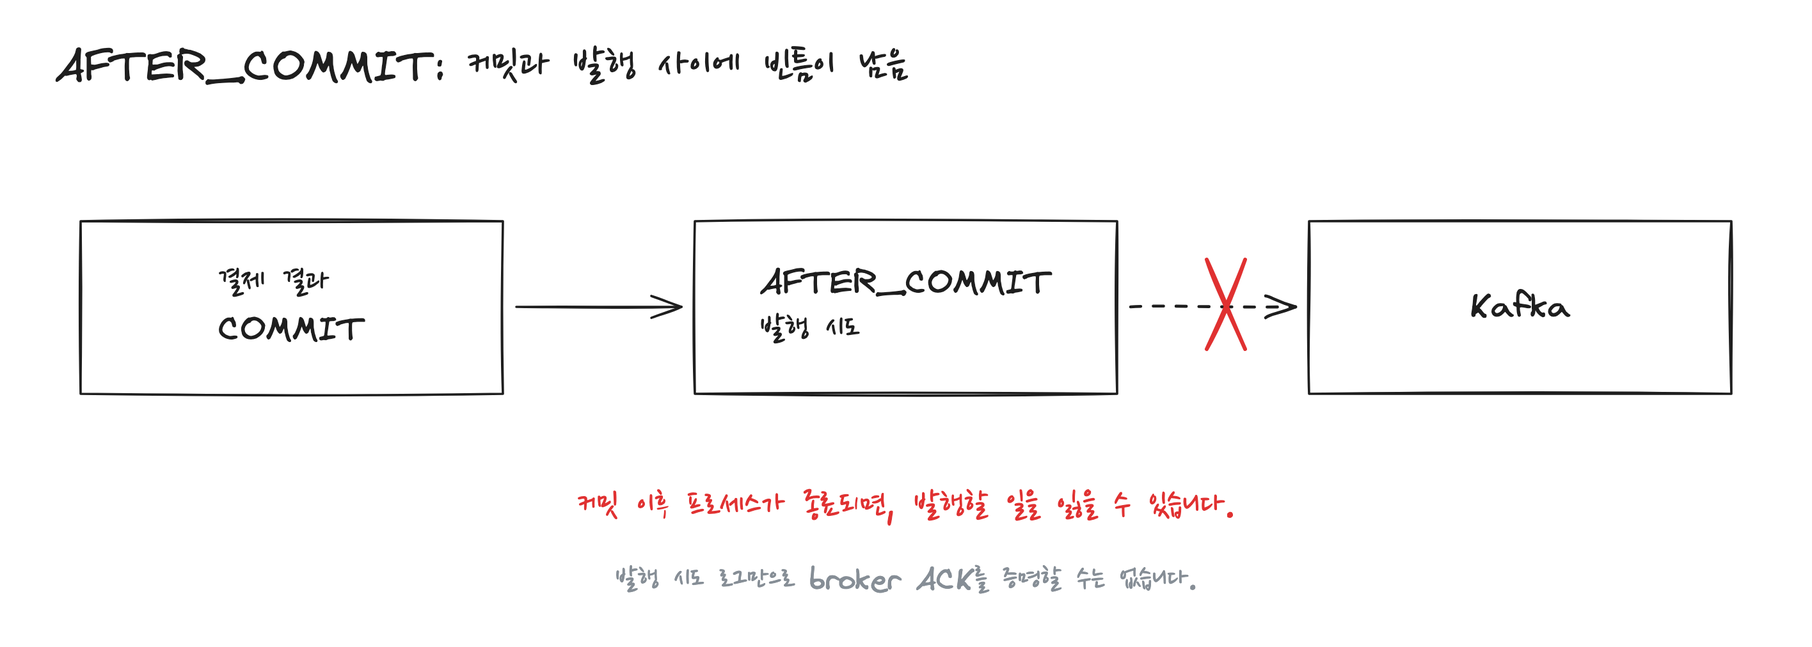
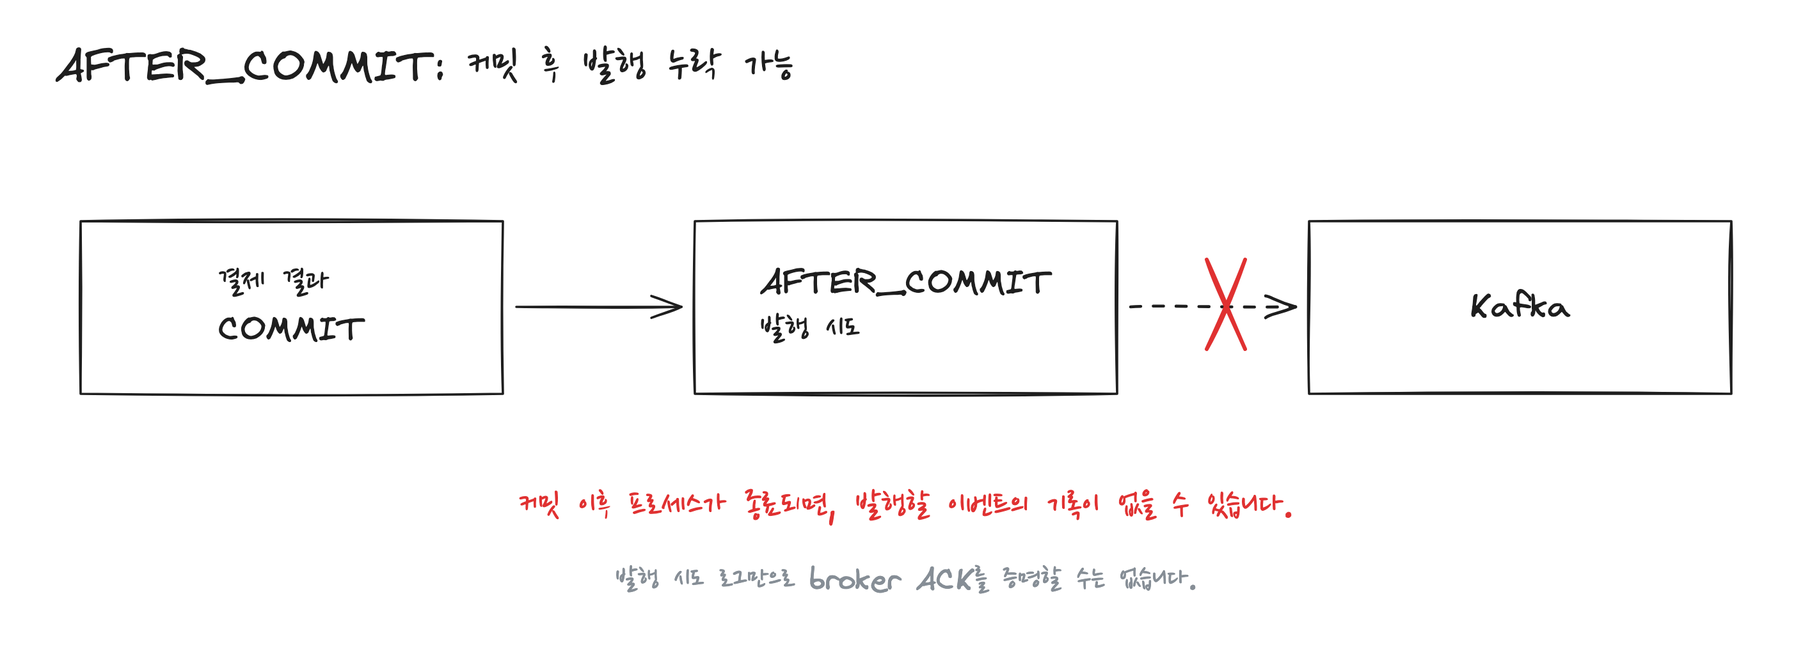
docs(blog): 비유 표현 정리와 MSK 운영 환경 명시

Changed region(s): [[0.2797, 0.7658, 0.7147, 0.7964], [0.2797, 0.0613, 0.4972, 0.1225]]

diff --git a/posts/transactional-outbox-relay/index.html b/posts/transactional-outbox-relay/index.html
@@ -6,15 +6,15 @@
 <p>필요한 것은 승인 API를 다시 호출하는 일이 아니었습니다. <strong>이미 확정된 결제 결과를 잃지 않고 주문에 반영하는 경로</strong>였습니다. 이 글에서는 그 경로에 Outbox를 도입한 이유와, 전달 지연을 줄이면서 콜백 Relay를 선택한 근거를 다룹니다.</p>
 <h2 id="section-1">1. 결제는 됐다는데, 주문은 어디 갔을까</h2>
 <p>처음에는 판매자 화면의 갱신 문제를 의심했습니다. 그런데 주문 조회 API에서도 해당 주문은 결제 대기였습니다. 화면을 새로고침해서 해결할 일이 아니었습니다.</p>
-<p>같은 주문번호로 APM과 요청 로그를 따라갔습니다. 결제 서비스에는 PG 승인 성공과 결제 결과 저장 기록이 있었지만, 주문 서비스에는 그 결과를 반영한 기록이 없었습니다. 여기서 확인한 것은 <strong>결제 결과와 주문 상태가 갈라졌다는 사실</strong>입니다. 이것만으로 HTTP 응답 유실인지, 이벤트 발행이나 적용 실패인지까지 확정할 수는 없었습니다.</p>
-<p>여러 축제의 여러 푸드트럭이 플랫폼을 사용하고 고객은 QR로 메뉴를 열어 주문합니다. 주문 서비스와 결제 서비스는 배포 단위가 분리돼 있습니다. 같은 MySQL 인스턴스를 사용하지만 각자 소유한 테이블과 독립적인 트랜잭션을 관리합니다. 결제 서비스는 승인과 취소, 환불뿐 아니라 판매자별 정산과 지급대행도 담당합니다.</p>
+<p>같은 주문번호로 APM과 요청 로그를 따라갔습니다. 결제 서비스에는 PG 승인 성공과 결제 결과 저장 기록이 있었지만, 주문 서비스에는 그 결과를 반영한 기록이 없었습니다. 여기서 확인한 것은 <strong>결제 결과와 주문 상태가 일치하지 않는다는 사실</strong>입니다. 이것만으로 HTTP 응답 유실인지, 이벤트 발행이나 적용 실패인지까지 확정할 수는 없었습니다.</p>
+<p>여러 축제의 여러 푸드트럭이 플랫폼을 사용하고 고객은 QR로 메뉴를 열어 주문합니다. 주문 서비스와 결제 서비스는 배포 단위가 분리돼 있습니다. 같은 MySQL 인스턴스를 사용하지만 각자 소유한 테이블과 독립적인 트랜잭션을 관리합니다. 결제 서비스는 승인과 취소, 환불뿐 아니라 판매자별 정산과 지급대행도 담당합니다. 운영의 Kafka 브로커는 Amazon MSK를 사용합니다.</p>
 <p><a target="_blank" rel="noopener noreferrer" href="/assets/posts/transactional-outbox-relay/01-00-architecture-without-db-label-v2.png"><img src="/assets/posts/transactional-outbox-relay/01-00-architecture-without-db-label-v2.png" alt="주문과 결제 처리 흐름과 각 트랜잭션 경계" style="max-width: 100%;" loading="lazy" decoding="async" width="2832" height="1632"></a></p>
 <p>정상 경로는 주문 서비스 → 결제 서비스 → PG의 동기 HTTP 호출입니다. 결제 결과가 돌아오면 주문 서비스가 자기 TX에서 <strong>결제 확인 후 판매자 수락 대기</strong>를 기록합니다. 이후 판매자가 수락하면 조리 중으로 넘어갑니다.</p>
-<p>결제 커밋 뒤 HTTP 응답을 놓치거나, 응답을 받은 주문 서비스가 DB에 기록하기 전에 종료되면 결제만 성공한 상태가 남을 수 있습니다. 같은 MySQL을 사용해도 두 서비스의 HTTP 호출이 하나의 로컬 TX로 묶이지는 않습니다. 따라서 타임아웃을 승인 실패로 바꾸지 않고 기존 <code class="notranslate">paymentAttemptId</code>의 결과부터 확인해야 했습니다.</p>
+<p>결제 커밋 뒤 HTTP 응답을 놓치거나, 응답을 받은 주문 서비스가 DB에 기록하기 전에 종료되면 결제만 성공한 상태가 남을 수 있습니다. 같은 MySQL을 사용해도 두 서비스의 처리가 하나의 로컬 TX에 포함되지는 않습니다. 따라서 타임아웃을 승인 실패로 바꾸지 않고 기존 <code class="notranslate">paymentAttemptId</code>의 결과부터 확인해야 했습니다.</p>
 <h2 id="section-2">2. 전달할 결제 결과를 DB에 남겼다</h2>
-<p>기존에는 <code class="notranslate">@TransactionalEventListener(AFTER_COMMIT)</code>에서 Kafka로 이벤트를 보냈습니다. DB 커밋이 끝난 뒤 실행되므로 롤백된 결과를 발행할 위험은 줄지만, <strong>커밋과 Kafka 기록 사이의 빈틈</strong>은 남습니다. <a href="https://docs.spring.io/spring-framework/reference/data-access/transaction/event.html" rel="nofollow">Spring의 트랜잭션 이벤트 실행 시점</a></p>
+<p>기존에는 <code class="notranslate">@TransactionalEventListener(AFTER_COMMIT)</code>에서 Kafka로 이벤트를 보냈습니다. DB 커밋이 끝난 뒤 실행되므로 롤백된 결과를 발행할 위험은 줄지만, <strong>DB 커밋과 Kafka 기록을 원자적으로 완료하는 것은 아닙니다.</strong> <a href="https://docs.spring.io/spring-framework/reference/data-access/transaction/event.html" rel="nofollow">Spring의 트랜잭션 이벤트 실행 시점</a></p>
 <p><a target="_blank" rel="noopener noreferrer" href="/assets/posts/transactional-outbox-relay/02-03-after-commit-gap.png"><img src="/assets/posts/transactional-outbox-relay/02-03-after-commit-gap.png" alt="AFTER_COMMIT의 유실 구간" style="max-width: 100%;" loading="lazy" decoding="async" width="2832" height="1012"></a></p>
-<p>커밋 후 리스너 실행 전이나, 비동기 send 등록 후 브로커 기록 전에 프로세스가 종료되면 재시작한 서버는 무엇을 보내려 했는지 모릅니다. <code class="notranslate">.get()</code>으로 ACK를 기다려도 이미 끝난 DB 커밋과 Kafka 전송이 원자적으로 묶이지는 않습니다. 반대로 커밋 전에 보내면 이벤트만 전달된 뒤 DB가 롤백될 수 있습니다.</p>
+<p>커밋 후 리스너 실행 전이나, 비동기 send 등록 후 브로커 기록 전에 프로세스가 종료되면 재시작 후 발행 대상을 식별할 기록이 없을 수 있습니다. <code class="notranslate">.get()</code>으로 ACK를 기다려도 이미 끝난 DB 커밋과 Kafka 전송이 하나의 원자적 작업으로 처리되지는 않습니다. 반대로 커밋 전에 보내면 이벤트만 전달된 뒤 DB가 롤백될 수 있습니다.</p>
 <p>그래서 <strong>승인 결과와 발행할 이벤트를 결제 서비스의 같은 로컬 TX에 저장</strong>하도록 경계를 정했습니다. PG 호출은 이 TX 밖에서 수행하고, 확인된 결과를 전달합니다. 핵심 저장 경계는 다음과 같습니다.</p>
 <div class="highlight highlight-source-java"><pre class="notranslate"><span class="pl-c1">@</span><span class="pl-c1">Transactional</span>
 <span class="pl-k">public</span> <span class="pl-smi">ConfirmedPaymentResult</span> <span class="pl-en">recordResult</span>(<span class="pl-smi">VerifiedPgResult</span> <span class="pl-s1">pgResult</span>) {
@@ -34,14 +34,14 @@
 }</pre></div>
 <p>같은 결제의 결과 반영은 동일한 결제 행을 잠그고, PG 결과 키와 <code class="notranslate">(payment_id, event_sequence)</code>에는 유일성 제약을 둡니다. 제약 충돌 시에는 실패한 TX를 롤백하고 새 TX에서 기존 결과를 읽어 같은 원거래와 금액인지 확인합니다. 위 코드는 그 바깥 재조회 경로를 생략했습니다.</p>
 <p><a target="_blank" rel="noopener noreferrer" href="/assets/posts/transactional-outbox-relay/03-04-atomic-outbox.png"><img src="/assets/posts/transactional-outbox-relay/03-04-atomic-outbox.png" alt="결제 결과와 Outbox의 원자적 저장" style="max-width: 100%;" loading="lazy" decoding="async" width="2832" height="1212"></a></p>
-<p>이제 결제 결과와 Outbox INSERT가 함께 커밋되거나 함께 롤백됩니다. Relay는 DB에 남은 PENDING을 다시 찾을 수 있습니다. Outbox를 별도 <code class="notranslate">REQUIRES_NEW</code>로 저장하거나 AFTER_COMMIT에서 INSERT하면 이 저장 경계가 다시 깨집니다. PG 승인 자체와 주문 상태 변경은 이 로컬 TX 밖에 있습니다.</p>
+<p>이제 결제 결과와 Outbox INSERT가 함께 커밋되거나 함께 롤백됩니다. Relay는 DB에 남은 PENDING을 다시 찾을 수 있습니다. Outbox를 별도 <code class="notranslate">REQUIRES_NEW</code>로 저장하거나 AFTER_COMMIT에서 INSERT하면 결제 결과와 Outbox가 같은 TX에서 커밋된다는 보장이 없어집니다. PG 승인 자체와 주문 상태 변경은 이 로컬 TX 밖에 있습니다.</p>
 <p>이벤트는 확정 순간의 <code class="notranslate">eventId</code>, 원주문과 결제 식별자, 결과 순번과 금액을 담아 저장합니다. Relay가 재발행할 때도 <strong>동일 ID와 payload</strong>를 사용합니다. 발행 시점의 현재 결제를 다시 직렬화하면, 승인 후 환불된 결제를 승인 사건의 내용으로 보내는 문제가 생길 수 있습니다.</p>
-<p>결제 서비스 안의 1분 주기 대사는 PG 결과가 미확정인 시도를 확인합니다. Outbox는 이미 확정된 결과의 후속 전달을 맡습니다. 도입 전에 누락된 이벤트에는 Outbox 행이 없으므로, 당시의 불변 확정 내역과 주문 적용 이력을 대조하는 별도 복구가 필요합니다. Outbox 도입만으로 과거 누락까지 채워지는 것은 아닙니다.</p>
+<p>결제 서비스 안의 1분 주기 대사는 PG 결과가 미확정인 시도를 확인합니다. Outbox는 이미 확정된 결과를 후속 처리에 전달하는 데 사용합니다. 도입 전에 누락된 이벤트에는 Outbox 행이 없으므로, 당시의 불변 확정 내역과 주문 적용 이력을 대조하는 별도 복구가 필요합니다. Outbox 도입만으로 과거에 누락된 이벤트가 자동 복구되는 것은 아닙니다.</p>
 <h2 id="section-3">3. 지연되어서 좋은 데이터는 없다.</h2>
 <p>Outbox에 결과를 남겨도 언제 전달될지는 별개의 문제였습니다. 주문이 몰릴 때는 결제 결과와 Outbox가 있는데도 판매자가 주문을 뒤늦게 확인하는 문제가 남았습니다. PG 승인이 늦은 것과 <strong>승인이 끝난 뒤 전달을 기다리는 것</strong>부터 구분했습니다.</p>
 <p>기존 Relay는 한 회차 최대 100건을 먼저 send한 뒤 모든 future를 공통 마감까지 수집하고, 결과를 한 번에 기록했습니다. <code class="notranslate">fixedDelay=5000</code>이므로 다음 조회는 <strong>회차 처리 시간 + 5초 뒤</strong>였습니다. 처리 시간이 0이어도 회차당 100건이면 초당 20건을 넘기기 어렵습니다. 이는 코드에서 계산한 상한이며 측정한 최대 처리량은 아닙니다. <a href="https://docs.spring.io/spring-framework/reference/integration/scheduling.html" rel="nofollow">Spring fixedDelay의 실행 기준</a></p>
-<p>먼저 폴링 사이의 빈 대기를 줄였습니다. 운영 당시 회고로 HTTP 반영을 놓친 주문의 결제 확정 후 반영 지연은 약 5초에서 약 200ms로 줄었습니다. 이 근사값을 평균이나 p95로 부르지는 않습니다. 아래는 별도로 정의한 구간을 로컬 모델에서 측정한 결과입니다.</p>
-<p>MySQL 8.4와 Kafka 4.1.2 단일 브로커에서, 같은 선전송과 일괄 기록 Relay의 fixedDelay만 5초와 100ms로 바꿨습니다. 같은 JVM의 단조 시계로 <strong>결제 커밋 완료 확인 → 주문 DB 커밋 완료 확인</strong>을 기록했습니다. 실제 PG와 판매자 화면 갱신 시간은 포함하지 않았습니다.</p>
+<p>먼저 폴링 주기로 생기는 대기 시간을 줄였습니다. 운영 당시 회고로 HTTP 반영을 놓친 주문의 결제 확정 후 반영 지연은 약 5초에서 약 200ms로 줄었습니다. 이 근사값을 평균이나 p95로 부르지는 않습니다. 아래는 별도로 정의한 구간을 로컬 모델에서 측정한 결과입니다.</p>
+<p>비교에서는 운영과 같은 <strong>MySQL Outbox → Kafka → 주문 DB 반영 구조</strong>를 로컬에 구성했습니다. 비교 환경은 MySQL 8.4와 Kafka 4.1.2 단일 브로커이며, 같은 선전송과 일괄 기록 Relay의 fixedDelay만 5초와 100ms로 바꿨습니다. 같은 JVM의 단조 시계로 <strong>결제 커밋 완료 확인 → 주문 DB 커밋 완료 확인</strong>을 기록했습니다. 실제 PG와 판매자 화면 갱신 시간은 포함하지 않았습니다.</p>
 <markdown-accessiblity-table><table role="table">
 <thead>
 <tr>
@@ -60,7 +60,7 @@
 </tr>
 <tr>
 <td>초기 적체 300건 + 신규 400건 지속 유입</td>
-<td>커밋된 결과를 처음 모두 따라잡은 시점</td>
+<td>현재까지 커밋된 결과의 미반영 수가 처음 0이 된 시점</td>
 <td align="right">35.69초</td>
 <td align="right">0.68초</td>
 </tr>
@@ -73,10 +73,10 @@
 </tbody>
 </table></markdown-accessiblity-table>
 <p>각 수치는 3회 실행별 값의 중앙값입니다. 첫 조건은 모의 PG HTTP와 목표 유입 20건/초, 두 번째는 PG와 HTTP 없이 목표 초당 20건으로 20초 동안 추가한 별도 비교입니다. 두 조건의 상세 수치는 접힌 측정 자료에 남겼습니다.</p>
-<p>초기 적체 조건에서 기존 300건 자체는 15.37초 만에 끝났지만 그동안 추가된 이벤트가 남아, 유입까지 따라잡은 시점은 35.69초였습니다. 변경 후에는 각각 0.56초와 0.68초였습니다. <strong>기존 적체를 비운 것과 새 유입을 따라잡은 것은 달랐습니다.</strong> 이후에도 약 20초까지 새 이벤트가 들어왔으므로 처음 따라잡은 시점이 전체 작업의 종료는 아닙니다.</p>
-<p>100ms가 모든 환경의 정답은 아닙니다. 적체 비교에서 전체 700건을 반영할 때까지 조회 횟수는 7회에서 159회로 늘었습니다. 폴링 조정은 전달 시작을 기다리는 시간을 줄인 선택이며, DB 조회 비용과 실제 유입을 감당할 처리 여유도 함께 봐야 했습니다.</p>
+<p>초기 적체 조건에서 기존 300건의 반영은 15.37초에 끝났지만, 그동안 추가된 이벤트 중 미반영 결과가 남아 있었습니다. 미반영 수가 처음 0이 된 시점은 35.69초였고, 변경 후에는 두 시점이 각각 0.56초와 0.68초였습니다. <strong>초기 이벤트의 반영 완료와 신규 유입을 포함한 미반영 수 0은 서로 다른 지표입니다.</strong> 이후에도 약 20초까지 새 이벤트가 들어왔으므로, 미반영 수가 처음 0이 된 시점은 전체 작업 종료 시점과 다릅니다.</p>
+<p>100ms가 모든 환경의 정답은 아닙니다. 적체 비교에서 전체 700건을 반영할 때까지 조회 횟수는 7회에서 159회로 늘었습니다. 폴링 조정은 전달 시작을 기다리는 시간을 줄인 선택이며, DB 조회 비용과 신규 유입률을 초과하는 처리율도 함께 확인해야 했습니다.</p>
 <h2 id="section-4">4. 배치 전체를 기다리지 않는 콜백 Relay를 선택했다</h2>
-<p>폴링을 줄여도 느린 한 건 때문에 회차 전체가 반환하지 못하는 구조는 남았습니다. 기존에도 여러 send가 진행됐으므로 이미 Kafka에 도착한 이벤트는 Consumer가 반영할 수 있었습니다. 막힌 것은 <strong>뒤에 새로 쌓인 이벤트의 전송 시작</strong>이었습니다.</p>
+<p>폴링을 줄여도 느린 한 건 때문에 회차 전체가 반환하지 못하는 구조는 남았습니다. 기존에도 여러 send가 진행됐으므로 이미 Kafka에 도착한 이벤트는 Consumer가 반영할 수 있었습니다. 이전 회차가 끝날 때까지 <strong>새로 저장된 이벤트의 전송 시작이 지연</strong>됐습니다.</p>
 <p>이를 확인하려고 폴링 100ms, 미완료 한도 16건, 결과 DB 연결 4개를 맞춰 세 구성을 비교했습니다. 초기 160건에 신규 300건을 목표 초당 100건으로 추가하는 로컬 승인 모델입니다. 이 비교에는 PG와 HTTP가 없으며, Spring 서비스 전체를 실행한 결과는 아닙니다.</p>
 <markdown-accessiblity-table><table role="table">
 <thead>
@@ -104,12 +104,12 @@
 </tr>
 </tbody>
 </table></markdown-accessiblity-table>
-<p>지연은 실제 결과 TX 안의 <code class="notranslate">SELECT SLEEP(1)</code>로 만들었습니다. 수치는 실행별 p95의 3회 중앙값입니다. 배치 방식의 첫 이벤트는 약 120.2ms에 이미 주문에 반영됐지만, 17번째 이벤트의 send 시작은 1,233.9ms였습니다. 작업자는 208.8ms, 콜백은 211.4ms였습니다. <strong>콜백이 도착한 주문의 처리를 앞당긴 것이 아니라, 다음 발행이 이전 배치에 묶이지 않도록 한 효과</strong>였습니다.</p>
+<p>지연은 실제 결과 TX 안의 <code class="notranslate">SELECT SLEEP(1)</code>로 만들었습니다. 수치는 실행별 p95의 3회 중앙값입니다. 배치 방식의 첫 이벤트는 약 120.2ms에 이미 주문에 반영됐지만, 17번째 이벤트의 send 시작은 1,233.9ms였습니다. 작업자는 208.8ms, 콜백은 211.4ms였습니다. 이 차이는 <strong>이전 회차가 끝나기 전에 다음 이벤트의 전송을 시작할 수 있도록 한 결과</strong>였습니다.</p>
 <p>추가 지연이 없는 조건과 브로커 응답 경로에 40ms를 넣은 조건도 비교했습니다. 작업자와 콜백의 성능은 비슷했고 순위도 지표에 따라 바뀌었습니다. <code class="notranslate">.get()</code>을 없앴다는 사실만으로 더 빨라진다고 주장할 결과는 아니었습니다. 배치와의 비교에는 결과 커밋 단위 변경도 포함되므로 그 효과를 분리해서 해석해야 합니다.</p>
-<p>그중 콜백을 선택한 이유는 <strong>비동기 send의 완료 흐름을 유지하면서 ACK 대기용 작업자 스레드를 별도로 점유하지 않기 위해서</strong>입니다. 별도 자원 비교에서는 필요한 풀만 생성했고, JVM 스레드 수는 작업자 29개와 콜백 17개, NMT 스택 예약 공간은 55.8MiB와 49.7MiB였습니다. 이 스택 수치를 물리 메모리 절감량으로 읽지는 않습니다.</p>
+<p>그중 콜백을 선택한 이유는 <strong>비동기 send의 완료 흐름을 유지하면서 ACK 대기용 작업자 스레드를 별도로 점유하지 않기 위해서</strong>입니다. 별도 자원 비교에서는 필요한 풀만 생성했고, JVM 스레드 수는 작업자 29개와 콜백 17개, NMT 스택 예약 공간은 55.8MiB와 49.7MiB였습니다. 이 스택 예약 메모리 감소량이 실제 상주 메모리 감소량을 의미하지는 않습니다.</p>
 <p>CPU 시간은 정상 조건에서 876.8ms와 781.7ms였지만 응답 지연 조건에서는 880.7ms와 946.7ms로 순서가 바뀌었습니다. <strong>스레드와 스택 공간의 차이는 확인했지만 CPU 우위는 일관되지 않았습니다.</strong> 이 측정은 같은 JVM에서 실행한 source와 Consumer, Kafka client, JIT와 GC를 포함하며 Relay 전용 CPU가 아닙니다.</p>
 <p><a target="_blank" rel="noopener noreferrer" href="/assets/posts/transactional-outbox-relay/04-05-relay-flow.png"><img src="/assets/posts/transactional-outbox-relay/04-05-relay-flow.png" alt="처리 슬롯 안에서 조회와 전송하고 완료 콜백으로 결과 기록" style="max-width: 100%;" loading="lazy" decoding="async" width="3032" height="1552"></a></p>
-<p>스케줄러는 조회와 전송 등록 뒤 반환합니다. 다음 회차는 빈 슬롯만큼 새 이벤트를 맡습니다. 다음 코드는 실행 경계를 설명하며 오류 회수 구현 전체를 담지는 않습니다.</p>
+<p>스케줄러는 조회와 전송 등록 뒤 반환합니다. 다음 회차에서는 사용 가능한 슬롯 수만큼 새 이벤트를 처리합니다. 다음 코드는 실행 경계를 설명하며 오류 회수 구현 전체를 담지는 않습니다.</p>
 <div class="highlight highlight-source-java"><pre class="notranslate"><span class="pl-c1">@</span><span class="pl-c1">Scheduled</span>(<span class="pl-s1">fixedDelayString</span> = <span class="pl-s">"${outbox.relay.poll-delay-ms:100}"</span>)
 <span class="pl-k">public</span> <span class="pl-smi">void</span> <span class="pl-en">relayOnce</span>() {
     <span class="pl-smi">int</span> <span class="pl-s1">free</span> = <span class="pl-s1">inFlight</span>.<span class="pl-en">remainingCapacity</span>();
@@ -190,7 +190,7 @@
 </details>
 <details>
 <summary>HTTP와 모의 PG 조건별 전체 결과와 측정 경계</summary>
-<h3>전체 주문의 p95만 보면 복구 경로가 가려진다</h3>
+<h3>전체 주문의 p95만으로 이벤트 반영 지연을 평가할 수 없다</h3>
 <p>운영 당시 회고와 별도로 <strong>로컬 MySQL 8.4, Kafka 4.1.2 단일 브로커, 모의 PG HTTP</strong>에서 같은 구간을 비교했습니다. 실제 PG나 운영 환경의 측정값은 아닙니다. 같은 선전송과 일괄 기록 Relay에서 폴링만 바꿨습니다.</p>
 <p>목표 유입 20건/초로 200건씩 실행하고, 매 5번째 요청은 결제 커밋 뒤 HTTP 응답을 늦춰 이벤트로 반영되도록 했습니다. 실행당 40건이 이 경로에 의존했습니다. 다음은 <strong>3회 실행별 p95의 중앙값</strong>입니다.</p>
 <markdown-accessiblity-table><table role="table">
@@ -258,13 +258,13 @@
 <p>폴링을 줄여도 PG 지연 조건의 요청부터 반영까지 p95는 약 4.25초 남았습니다. <strong>Relay는 확정 이후의 전달 대기를 줄이며 PG 대기를 없애지는 않습니다.</strong> 정상 HTTP 경로의 작은 차이도 폴링 변경만의 효과로 단정하지 않습니다.</p>
 <p>PG 지연 조건에서 20ms마다 확인한 최대 미반영 수의 실행별 중앙값은 56건 → 5건, 가장 오래 기다린 미반영 주문의 대기 시간은 5,183.6ms → 269.6ms였습니다. 샘플링 사이의 최대치는 놓칠 수 있습니다.</p>
 <p>HTTP 비교의 총 18회 3,600건은 Kafka 기록과 결제 결과, Outbox와 주문 DB를 대조했고 최종 미반영은 모두 0건이었습니다. 종료 시점의 0건이 실행 중에도 항상 0건이었다는 뜻은 아닙니다.</p>
-<p>적체 비교는 같은 MySQL와 Kafka에서 PG와 HTTP를 제외한 별도 전달 모델입니다. 초기 적체 해소 시간은 초기 300건 중 마지막 주문 커밋에서, 신규 지연은 각 신규 결과 커밋에서 계산했습니다. 따라잡은 시점은 커밋과 적용 시각을 정렬해, 그 시각까지 커밋된 미반영 결과가 처음 0건이 된 때입니다. 슬롯 대기나 화면 갱신 시간의 추정값이 아닙니다.</p>
+<p>적체 비교는 같은 MySQL와 Kafka에서 PG와 HTTP를 제외한 별도 전달 모델입니다. 초기 적체 해소 시간은 초기 300건 중 마지막 주문 커밋에서, 신규 지연은 각 신규 결과 커밋에서 계산했습니다. 미반영 수가 처음 0이 된 시점은 각 결과의 커밋 시각과 주문 적용 시각을 정렬해 계산했습니다. 슬롯 대기나 화면 갱신 시간의 추정값이 아닙니다.</p>
 <p>신규 커밋의 실제 첫 시각과 마지막 시각으로 계산한 유입률은 6회 모두 19.991–19.994건/초 범위였습니다. 총 4,200건의 고유 ID와 Kafka 기록, 승인 결과, PUBLISHED, 주문 적용 1회와 inbox를 대조했고 최종 미반영은 모두 0건이었습니다. 반복별 신규 p95는 기존 20,205.1–20,230.1ms, 변경 후 142.4–148.2ms였습니다.</p>
 <p>이 결과는 <strong>폴링 간격 변경의 전달 대기와 제한된 적체 해소 비교</strong>입니다. Relay 구성 비교는 폴링을 100ms로 고정한 별도 모델입니다. 실제 서비스의 부분 환불이나 다중 Relay, 장기 운영 누락률을 검증한 결과는 아닙니다.</p>
 </details>
 <details>
-<summary>초기 적체와 지속 유입: 전체 결과와 처리 여유</summary>
-<h3>기존 적체를 비우는 것과 유입을 따라잡는 것은 다르다</h3>
+<summary>초기 적체와 지속 유입: 전체 결과와 추가 처리율</summary>
+<h3>초기 이벤트의 반영 완료와 미반영 수 0은 다르다</h3>
 <p>하지만 빈 상태에서 200건을 처리한 결과만으로 장애 후 복구를 판단할 수는 없습니다. 이번에는 <strong>결과와 Outbox가 이미 커밋된 300건</strong>을 준비하고, Relay를 시작한 뒤에도 목표 초당 20건으로 20초 동안 400건을 추가했습니다. HTTP로 먼저 반영하는 경로 없이 모두 이벤트를 통해 주문 DB에 적용했습니다.</p>
 <p>회차당 100건을 먼저 전송하고 결과를 일괄 기록하는 모델은 그대로 두고, 5초와 100ms를 번갈아 3회씩 실행했습니다. 아래 역시 실행별 값의 중앙값이며, 시간의 시작점은 초기 300건을 커밋한 뒤 Relay를 시작한 시점입니다.</p>
 <markdown-accessiblity-table><table role="table">
@@ -282,7 +282,7 @@
 <td align="right">0.56초</td>
 </tr>
 <tr>
-<td>그때까지 커밋된 모든 결과를 처음 따라잡음</td>
+<td>그 시점까지 커밋된 결과의 미반영 수가 처음 0이 됨</td>
 <td align="right">35.69초</td>
 <td align="right">0.68초</td>
 </tr>
@@ -303,10 +303,10 @@
 </tr>
 </tbody>
 </table></markdown-accessiblity-table>
-<p>5초 폴링은 초기 300건을 처리한 뒤에도 새 이벤트가 계속 쌓여 있었습니다. 반면 100ms 폴링은 유입이 계속되는 동안 한 번 따라잡았습니다. <strong>처음 따라잡은 시점이 전체 작업의 종료는 아닙니다.</strong> 이후에도 새 이벤트는 약 20초까지 들어왔습니다. 마지막 유입 후 전체 반영까지는 각각 15.73초와 0.08초가 더 걸렸습니다.</p>
-<p>개선 후에도 전체 신규 이벤트 p95보다 시작 직후 20건의 p95가 컸습니다. 이 주문들은 초기 적체 뒤에서 기다렸기 때문입니다. 평상시와 복구 직후를 한 지표로 합치면 가장 불편했던 구간이 가려질 수 있습니다.</p>
+<p>5초 폴링은 초기 300건을 처리한 뒤에도 새로 유입된 미반영 이벤트가 남아 있었습니다. 100ms 폴링은 신규 이벤트가 계속 유입되는 동안 미반영 수가 0이 된 시점이 있었습니다. <strong>미반영 수가 처음 0이 된 시점은 전체 작업 종료 시점과 다릅니다.</strong> 이후에도 약 20초까지 새 이벤트가 들어왔고, 마지막 유입 후 전체 반영까지는 각각 15.73초와 0.08초가 더 걸렸습니다.</p>
+<p>개선 후에도 전체 신규 이벤트 p95보다 시작 직후 20건의 p95가 컸습니다. 이 주문들은 초기 적체 뒤에서 기다렸기 때문입니다. 평상시와 복구 직후의 결과를 합쳐 계산하면 초기 유입 이벤트의 긴 지연을 확인하기 어렵습니다.</p>
 <p>폴링을 줄인 비용도 있습니다. 100ms는 다음 조회 전의 최소 대기이지 초당 10회 실행 보장이 아닙니다. 조회와 전송, 결과 기록 시간이 더해지며, 이 실행에서도 조회 횟수는 증가했습니다. <strong>DB CPU와 잠금 경합, 장기 최대 처리량까지 측정한 결과는 아닙니다.</strong></p>
-<p>Relay의 용량을 계산할 때는 발행 완료 기준의 지속 처리율을 <code class="notranslate">μ</code>(건/초), Outbox 신규 유입률을 <code class="notranslate">λ</code>(건/초), 그 시점의 미발행 적체를 <code class="notranslate">B</code>(건)로 맞춥니다. 일정한 속도와 <code class="notranslate">μ &gt; λ</code>를 가정한 해소 시간은 <code class="notranslate">B / (μ − λ)</code>로 근사할 수 있습니다. <code class="notranslate">μ ≤ λ</code>이면 유입이 계속되는 동안 따라잡지 못합니다. 기존 설정은 처리 시간이 0이어도 상한이 초당 20건이어서, 목표 유입 20건/초에서는 적체를 줄일 여유가 없었습니다. 이때는 배치를 한 번 비웠다는 사실보다 <strong>새 유입을 처리하고도 남는 처리율</strong>이 중요했습니다.</p>
+<p>Relay의 용량을 계산할 때는 발행 완료 기준의 지속 처리율을 <code class="notranslate">μ</code>(건/초), Outbox 신규 유입률을 <code class="notranslate">λ</code>(건/초), 그 시점의 미발행 적체를 <code class="notranslate">B</code>(건)로 맞춥니다. 일정한 속도와 <code class="notranslate">μ &gt; λ</code>를 가정한 해소 시간은 <code class="notranslate">B / (μ − λ)</code>로 근사할 수 있습니다. <code class="notranslate">μ ≤ λ</code>이면 신규 유입이 계속되는 동안 적체를 해소할 수 없습니다. 기존 설정은 처리 시간이 0이어도 상한이 초당 20건이어서, 목표 유입 20건/초에서는 신규 유입을 처리한 뒤 적체를 줄일 추가 처리율이 없었습니다. 이때는 한 배치의 처리 완료와 별개로 <strong>신규 유입률을 초과하는 처리율</strong>이 필요했습니다.</p>
 <p>여기서 <code class="notranslate">λ</code>는 HTTP 응답을 놓친 주문 수가 아니라 <strong>Outbox에 생성되는 전체 이벤트 수</strong>입니다. HTTP로 이미 주문을 반영했더라도 그 결제 결과 이벤트는 발행합니다. 복구 대상 40건만 보고 Relay 용량을 잡으면 이 조건에서는 실제 200건의 발행 수요를 다섯 배 적게 보게 됩니다.</p>
 </details>
 <details>
@@ -343,7 +343,7 @@
 </tbody>
 </table></markdown-accessiblity-table>
 <p>작업자와 콜백의 순위는 조건과 지표에 따라 조금씩 바뀌었습니다. <strong>이 결과로 콜백의 처리량 우위를 주장하지는 않습니다.</strong> 확인한 것은 배치 전체 대기를 제거한 두 구성이 비슷한 성능을 냈다는 점입니다.</p>
-<p>한 건의 DB 기록을 늦춘 조건에서 차이가 생긴 위치도 확인했습니다. 배치 방식의 첫 이벤트는 시작 후 약 <strong>120.2ms에 주문에 반영</strong>됐습니다. 하지만 그 결과를 기록하는 TX가 1초 지연되면서 17번째 이벤트의 send 시작은 <strong>1,233.9ms</strong>였습니다. 같은 이벤트의 시작은 작업자 방식 <strong>208.8ms</strong>, 콜백 <strong>211.4ms</strong>였습니다. 각 실행의 시각을 비교한 중앙값입니다. 이미 도착한 주문을 콜백이 더 빨리 보이게 한 것이 아니라, <strong>다음 이벤트가 이전 배치의 완료를 기다리지 않게 한 것</strong>입니다.</p>
+<p>한 건의 DB 기록을 늦춘 조건에서 차이가 생긴 위치도 확인했습니다. 배치 방식의 첫 이벤트는 시작 후 약 <strong>120.2ms에 주문에 반영</strong>됐습니다. 하지만 그 결과를 기록하는 TX가 1초 지연되면서 17번째 이벤트의 send 시작은 <strong>1,233.9ms</strong>였습니다. 같은 이벤트의 시작은 작업자 방식 <strong>208.8ms</strong>, 콜백 <strong>211.4ms</strong>였습니다. 각 실행의 시각을 비교한 중앙값입니다. 이 차이는 <strong>이전 회차가 끝나기 전에 다음 이벤트의 전송을 시작할 수 있도록 한 결과</strong>입니다.</p>
 <p>여기에는 비용도 있습니다. 실행당 460건을 처리할 때 배치 방식의 결과 커밋은 <strong>29회</strong>, 나머지 두 방식은 <strong>460회</strong>였습니다. 전송 완료 수집과 결과 기록 단위를 함께 바꾼 전체 구조 비교이며, <code class="notranslate">.get()</code>과 콜백 API만 바꾼 비교가 아닙니다. 커밋 횟수로 DB CPU나 커밋 소요 시간까지 추정하지 않습니다.</p>
 <p>Kafka client와 broker 4.1.2, MySQL 8.4 단일 인스턴스, broker 1개와 partition 3개, 결과 연결 풀 4개를 사용했습니다. PG와 HTTP를 제외한 전달 경로 비교입니다. 이벤트에는 원주문과 결제, 시도, 결과 순번과 금액을 넣고, key는 paymentId로 보냈습니다. 모든 이벤트는 서로 다른 결제의 승인 결과이며, 같은 결제의 후속 환불 순서까지 실행한 것은 아닙니다.</p>
 <p>초기 160건의 결과와 Outbox를 커밋한 뒤 시작했습니다. 신규 300건은 목표 10ms 간격으로 추가하고, 같은 JVM의 단조 시계로 결제 커밋 반환부터 주문 TX 커밋 반환까지 기록했습니다. Consumer는 적용 이력과 주문 변경을 같은 TX에 저장한 뒤 offset을 커밋했습니다. 신규 300건의 nearest-rank 분위수를 실행별로 계산했습니다.</p>
@@ -423,7 +423,7 @@
 </tr>
 </tbody>
 </table></markdown-accessiblity-table>
-<p>콜백에서 JVM 스레드는 <strong>12개</strong>, NMT의 스택 예약 공간은 약 <strong>6.1MiB</strong> 적었습니다. 하지만 스택 예약과 커밋은 OS가 실제 상주시킨 메모리인 RSS와 다릅니다. 이 환경에서 두 NMT 값은 같게 보고됐으며, 그 차이를 그대로 물리 메모리 절감량으로 읽지 않습니다.</p>
+<p>콜백에서 JVM 스레드는 <strong>12개</strong>, NMT의 스택 예약 공간은 약 <strong>6.1MiB</strong> 적었습니다. 하지만 스택 예약과 커밋은 OS가 실제 상주시킨 메모리인 RSS와 다릅니다. 이 환경에서 두 NMT 값은 같게 보고됐으며, 그 차이가 실제 상주 메모리 감소량을 의미하지는 않습니다.</p>
 <p>CPU 시간도 콜백이 항상 작지는 않았습니다. 추가 지연 없는 조건의 반복 범위는 작업자 850.8–966.1ms와 콜백 766.2–943.6ms였고, 브로커 응답 지연 조건에서는 각각 732.0–881.7ms와 776.2–986.9ms였습니다. <strong>두 조건 모두 범위가 겹쳤습니다.</strong> 이 표본에서는 ACK 대기 스레드와 스택 공간의 차이가 분명했고, CPU 효율이나 전체 RSS의 일관된 우위까지 입증한 것은 아닙니다.</p>
 <p>Java 21에서 <code class="notranslate">-Xms128m -Xmx384m -Xss512k -XX:NativeMemoryTracking=summary</code>를 동일하게 적용했습니다. 각 실행을 새 JVM으로 시작하고 132건을 워밍업한 뒤, 초기 160건과 신규 300건을 처리하는 12회만 집계했습니다. 방식의 실행 순서는 반복마다 교대했습니다. 총 5,520건의 Kafka 기록과 DB 최종 상태를 확인했습니다.</p>
 <p><code class="notranslate">ThreadMXBean</code>으로 전체 JVM 스레드 수를, <code class="notranslate">jcmd VM.native_memory summary</code>의 Thread 하위 stack으로 예약과 커밋 메모리를, OS의 <code class="notranslate">ps</code> RSS로 프로세스 상주 메모리를 읽었습니다. stack은 Thread 합계의 일부이므로 둘을 더하지 않았습니다. 이 값은 Java heap이나 작업자 스레드만의 메모리도 아닙니다. NMT는 JVM 내부 메모리 추적이며 프로세스 전체 RSS를 대신하지 않습니다. <a href="https://docs.oracle.com/en/java/javase/21/vm/native-memory-tracking.html" rel="nofollow">Java Native Memory Tracking</a></p>
@@ -445,8 +445,8 @@
 }, <span class="pl-s1">resultExecutor</span>);
 <span class="pl-s1">completionTracker</span>.<span class="pl-en">watch</span>(<span class="pl-s1">event</span>, <span class="pl-s1">sendFuture</span>, <span class="pl-s1">recordFuture</span>);</pre></div>
 <p>DB 작업을 Kafka 전송 완료 스레드에서 실행하지 않도록 명시적인 <code class="notranslate">resultExecutor</code>를 사용합니다. 원본 future와 결과 기록 future는 따로 추적합니다. 후속 future는 원래 전송 오류도 유지하므로, 예외 완료만으로 DB 기록 실패라고 판정할 수 없습니다. <strong>send의 동기 예외와 실행기 작업 거부도 completionTracker가 회수하는 경로</strong>가 필요합니다. 위 코드는 이 복구 구현을 생략한 연결 구조입니다. <a href="https://docs.spring.io/spring-kafka/reference/kafka/sending-messages.html" rel="nofollow">Spring Kafka의 비동기 전송 결과</a></p>
-<p><a target="_blank" rel="noopener noreferrer" href="/assets/posts/transactional-outbox-relay/05-11-callback-slot-lifecycle.png"><img src="/assets/posts/transactional-outbox-relay/05-11-callback-slot-lifecycle.png" alt="스케줄러와 Kafka 완료 스레드, DB 작업 실행기 사이의 슬롯 수명" style="max-width: 100%;" loading="lazy" decoding="async" width="3032" height="1992"></a></p>
-<p>ACK를 받았더라도 DB 기록 전에는 슬롯을 돌려주지 않습니다. 기록 실패 시 슬롯을 먼저 반환하면 같은 PENDING을 다시 읽을 수 있기 때문입니다. 메모리에 전송 결과를 보존하고 DB 기록만 재시도합니다. 재시도 가능한 전송 실패는 다음 발행 시각을 DB에 커밋한 뒤 슬롯을 반환합니다.</p>
+<p><a target="_blank" rel="noopener noreferrer" href="/assets/posts/transactional-outbox-relay/05-11-callback-slot-lifecycle.png"><img src="/assets/posts/transactional-outbox-relay/05-11-callback-slot-lifecycle.png" alt="스케줄러와 Kafka 완료 스레드, DB 작업 실행기 사이의 슬롯 점유 기간" style="max-width: 100%;" loading="lazy" decoding="async" width="3032" height="1992"></a></p>
+<p>ACK를 받았더라도 DB 기록 전에는 슬롯을 반환하지 않습니다. 기록 실패 시 슬롯을 먼저 반환하면 같은 PENDING을 다시 읽을 수 있기 때문입니다. 메모리에 전송 결과를 보존하고 DB 기록만 재시도합니다. 재시도 가능한 전송 실패는 다음 발행 시각을 DB에 커밋한 뒤 슬롯을 반환합니다.</p>
 <p>이 선택에는 비용도 있습니다. 배치당 한 번이던 결과 커밋이 건별로 나뉘고, 결과 실행기와 재시도 작업을 관리해야 합니다. 큐와 DB 연결 수도 제한해야 합니다. 배치 ACK 대기가 메서드 반환에서 빠져도, <strong>DB 기록이 느리면 슬롯 반환이 늦어져 다음 전송 역시 제한</strong>됩니다.</p>
 <p><a target="_blank" rel="noopener noreferrer" href="/assets/posts/transactional-outbox-relay/06-12-callback-recovery-shutdown.png"><img src="/assets/posts/transactional-outbox-relay/06-12-callback-recovery-shutdown.png" alt="실패 단계별 복구 경로와 정상 종료 순서" style="max-width: 100%;" loading="lazy" decoding="async" width="3032" height="2132"></a></p>
 <p>종료 순서는 신규 조회와 전송 중지 → 진행 중 전송과 후속 DB 기록 대기 → 결과 실행기 종료입니다. 실행기를 먼저 닫으면 뒤늦게 도착한 ACK를 기록할 곳이 없어집니다. <code class="notranslate">producer.flush()</code>만으로 외부 DB 작업 완료를 판단하지 않습니다. 유예 시간 안에 끝나지 않은 행은 DB에 남겨 다음 프로세스가 같은 ID로 재발행할 수 있어야 합니다.</p>
@@ -523,13 +523,13 @@
 <p>이때 <strong>30초는 주문 반영의 목표 시간이 아니라, 장애 중 한 전송 시도에 허용하는 시간</strong>입니다. 정상 전송은 ACK를 받는 즉시 결과를 기록하고 슬롯을 반환합니다. 전송 타임아웃 뒤에도 Kafka에 기록됐을 가능성은 남으므로, 다시 발행할 때는 같은 eventId를 유지하고 Consumer가 중복을 막습니다. 설정 변경 시에는 재시도 건수뿐 아니라 처리 슬롯 점유, 가장 오래된 PENDING의 대기 시간, 주문 반영 지연을 함께 확인해야 합니다. <a href="https://kafka.apache.org/41/configuration/producer-configs/" rel="nofollow">Kafka 프로듀서 설정</a></p>
 <p>전송 시도가 최종 실패하면 Relay는 재시도 가능한 행의 <code class="notranslate">attempt_count</code>와 <code class="notranslate">next_attempt_at</code>을 결과 기록 TX에서 갱신합니다. 횟수는 Outbox의 새 전송 시도 기준이며 Kafka 내부 재시도 횟수와 다릅니다. BLOCKED는 잘못된 payload처럼 자동 재시도로 해결되지 않는 오류를 격리할 때 사용합니다. Kafka 장애나 단순 관측 타임아웃을 이유로 결제 결과 이벤트를 삭제하지 않습니다.</p>
 <p>기본 조회 조건은 <code class="notranslate">status = 'PENDING' AND next_attempt_at &lt;= CURRENT_TIMESTAMP(6)</code>이며, 현재 처리 중인 ID도 제외합니다. 신규 행은 생성 즉시 발행 대상이 되도록 초기 시각을 넣습니다. 다만 이 조건만으로는 같은 결제의 이벤트 순서를 지킬 수 없으므로, 선행 미발행 이벤트가 있는지도 함께 확인해야 합니다.</p>
-<p>백오프 정책 예시로 기본 간격을 1초, 2초, 4초처럼 늘리되 최대 30초로 제한하고, 각 간격의 50–100% 범위에서 무작위로 대기 시간을 정할 수 있습니다. 같은 시점에 실패한 이벤트가 함께 몰려 재전송되는 것을 줄이기 위한 jitter입니다. 이벤트마다 Relay 스레드를 재우지 않고 다음 시각을 DB에 남깁니다. DB 기록 실패의 재시도와 Kafka 발행 실패의 재시도는 구분합니다.</p>
+<p>백오프 정책 예시로 기본 간격을 1초, 2초, 4초처럼 늘리되 최대 30초로 제한하고, 각 간격의 50–100% 범위에서 무작위로 대기 시간을 정할 수 있습니다. 같은 시점에 실패한 이벤트가 함께 몰려 재전송되는 것을 줄이기 위한 jitter입니다. 이벤트마다 Relay 스레드에서 대기하지 않고 다음 발행 시각을 DB에 저장합니다. DB 기록 실패의 재시도와 Kafka 발행 실패의 재시도는 구분합니다.</p>
 <p>행별 백오프만으로 Kafka 전체 장애 중 신규 이벤트의 발행 시도까지 억제되지는 않습니다. 광범위한 연결 실패에는 신규 전송을 잠시 줄이는 정책도 함께 고려합니다. 서킷브레이커를 추가하더라도 차단된 이벤트는 Outbox에 보존하고 복구 후 다시 전달해야 합니다. 오래 기다리는 이벤트와 반복 실패, 결과 기록 적체도 관측합니다.</p>
 </details>
 <details>
 <summary>CDC로 전환하기 전에 현재 병목부터 구분해야 한다</summary>
 <p>CDC를 사용해도 결과와 Outbox를 같은 TX에 저장하는 구조는 유지합니다. 달라지는 것은 발행 경로입니다. Debezium이 MySQL binlog의 Outbox INSERT를 읽으면 주기적 SELECT의 발견 대기를 줄일 수 있지만 Kafka ACK와 Consumer, 주문 DB의 지연까지 사라지지는 않습니다.</p>
-<p>먼저 개선한 것은 폴링의 빈 대기였고, 완료 처리 방식의 비교는 배치 전체 대기로 다음 조회가 막히는 경계를 다룹니다. 이 둘을 해결할 여지가 있는 상황에서 발행 경로 전체를 CDC로 옮기기보다 현재 경로부터 정리했습니다.</p>
+<p>먼저 개선한 것은 폴링 주기로 생기는 대기 시간이었고, 완료 처리 방식의 비교는 배치 전체 대기로 다음 조회가 막히는 경계를 다룹니다. 이 둘을 해결할 여지가 있는 상황에서 발행 경로 전체를 CDC로 옮기기보다 현재 경로부터 정리했습니다.</p>
 <p>표준 Outbox Event Router는 INSERT 중심입니다. 현재 Relay의 <code class="notranslate">next_attempt_at</code> UPDATE를 재발행 지시로 해석하지 않으며 DB의 PUBLISHED도 자동으로 갱신하지 않습니다. 전환 시에는 행별 재시도와 수동 재발행, 발행 상태 조회와 정리 기준을 다시 맞춰야 합니다. <a href="https://debezium.io/documentation/reference/stable/transformations/outbox-event-router.html" rel="nofollow">Outbox Event Router의 동작 계약</a></p>
 <p>또한 CDC는 저장된 binlog 위치나 GTID에서 재개하므로, 중단 중 필요한 로그가 삭제되면 재스냅샷 등 복구가 필요합니다. 커넥터의 중단 허용 시간, binlog 보존과 Outbox 정리 정책을 함께 정해야 합니다. 조회 비용이나 발견 대기가 계속 지배적일 때 다시 비교할 수 있습니다. <a href="https://debezium.io/documentation/reference/stable/connectors/mysql.html" rel="nofollow">MySQL 커넥터의 재시작과 복구</a></p>
 </details>
@@ -557,7 +557,7 @@
 <p>이 조회는 단일 활성 스케줄러 조건입니다. 인덱스는 후보 검색의 <code class="notranslate">(status, next_attempt_at, id)</code>와 선행 검색의 <code class="notranslate">(payment_id, event_sequence)</code> 등을 실제 데이터의 실행 계획으로 확인해야 합니다. PENDING과 BLOCKED는 정리 대상에서 제외합니다.</p>
 </details>
 <h3>선행 결과가 없으면 받은 사실과 적용 완료를 구분한다</h3>
-<p>기존 메시지나 별도 복구 경로로 취소 2가 승인 1보다 먼저 도착할 수 있습니다. 이때 취소를 버리거나 같은 파티션에서 승인 도착까지 붙잡고 있으면 복구가 어려워집니다. 뒤에 있는 승인을 읽지 못할 수도 있기 때문입니다.</p>
+<p>기존 메시지나 별도 복구 경로로 취소 2가 승인 1보다 먼저 도착할 수 있습니다. 이때 취소를 버리면 확정된 결과가 누락됩니다. 현재 레코드의 처리를 완료하지 않은 채 승인을 기다리면, 같은 파티션의 후속 승인 이벤트를 읽지 못할 수 있습니다.</p>
 <markdown-accessiblity-table><table role="table">
 <thead>
 <tr>

diff --git a/docs/superpowers/plans/2026-11-06-outbox-relay-decision-evidence.md b/docs/superpowers/plans/2026-11-06-outbox-relay-decision-evidence.md
@@ -75,3 +75,12 @@ Execution note: comparison27runs/12420events, recovery5freshchecks, resources12m
 - [ ] Independently review technical/evidence boundaries and rendered nested details, then republish at the same URL and verify public bytes.
 
 Compression review: no technical/evidence regression; fixed particle corruption 대기 시간는 and provider-name corruption caused by earlier broad replacement. Structural render and public byte readback are the publication gates.
+
+### Task 6: Direct technical wording
+
+- [x] Scan main text, supplements, image descriptions and diagram labels for age/lifespan, catch-up, hidden-path, sleep and gap metaphors.
+- [x] Replace30phrase patterns with explicit waiting time, slot occupancy period, first zero unapplied count, event-processing waits and non-atomic storage descriptions. Keep every measured numeric value and occurrence unchanged; explanatory zero counts may increase.
+- [x] Update editable Excalidraw source and export only the AFTER_COMMIT figure, replacing 빈틈 with 커밋 후 발행 누락 가능. Shape/layout unchanged; rendered validation has no issues.
+- [x] Render and review wording diff, preserve measured numbers, validate local links, image dimensions and nested details.
+- [x] State that production uses Amazon MSK and the local comparison reproduces the same delivery structure; do not claim identical infrastructure.
+- [ ] Publish and confirm public HTML/Markdown/CSS/eightPNG bytes.
